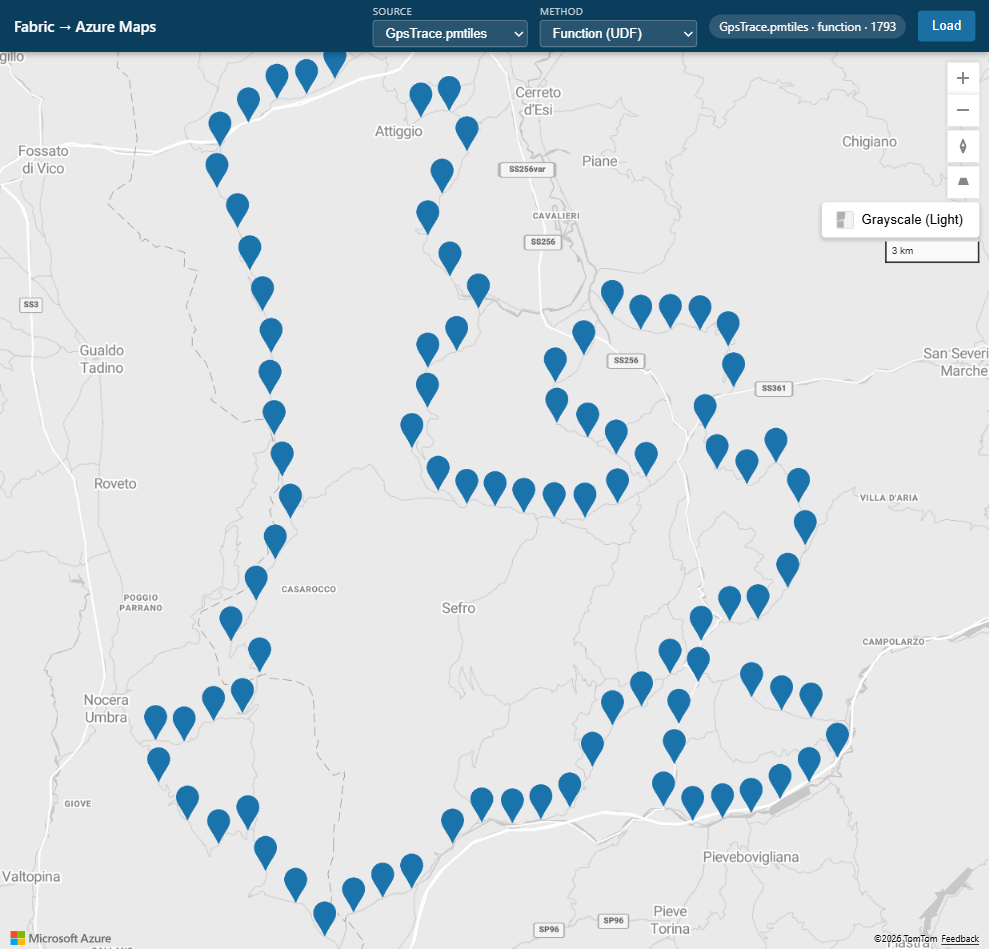
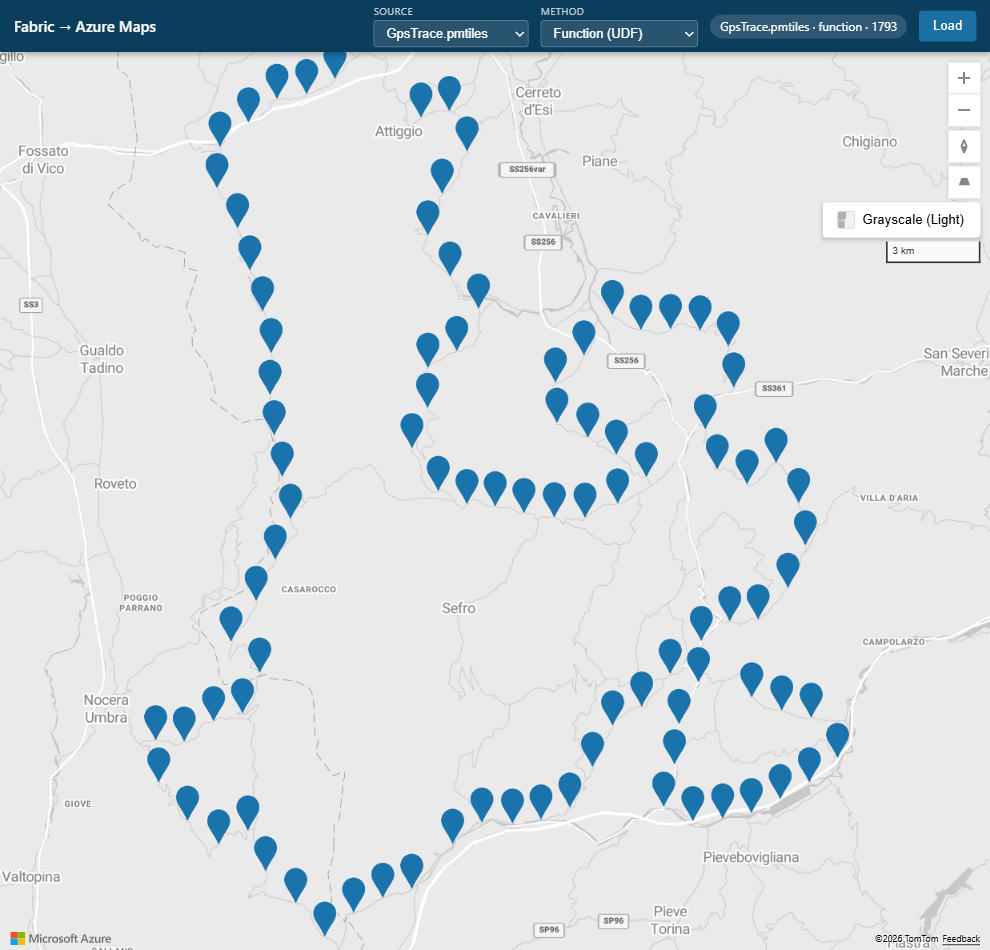
PMTiles: native pmtiles:// protocol + Range proxy (drop server-side tile decode)
- render-pmtiles.js: register pmtiles.js protocol, VectorTileSource url pmtiles://<archiveUrl>
- server: /api/pmtiles-archive with HTTP Range (206) replaces /api/pmtiles/{z}/{x}/{y}.mvt
- pmtiles lib: expose getPmtilesArchive (no MVT extraction/gunzip on server)
- index.html: load pmtiles@3.2.0; app.js: tokenacquired/error diagnostics
- browser decodes tiles client-side; server only relays bytes (OneLake-authenticated)

diff --git a/server/server.js b/server/server.js
@@ -4,8 +4,8 @@ const http = require("http");
 const fs = require("fs");
 const path = require("path");
 const cfg = require("./lib/config");
-const { getPmtilesTile } = require("./lib/pmtiles");
 const { getAzToken, RESOURCES } = require("./lib/fabric");
+const { getPmtilesArchive } = require("./lib/pmtiles");
 const registry = require("./sources");
 
 const PUBLIC_DIR = path.join(__dirname, "..", "public");
@@ -61,28 +61,43 @@ const server = http.createServer(async (req, res) => {
     }
   }
 
-  const pmtilesMatch = url.match(/^\/api\/pmtiles\/(\d+)\/(\d+)\/(\d+)\.mvt$/);
-  if (pmtilesMatch) {
+  // PMTiles archive served with HTTP Range support. The browser's pmtiles.js
+  // protocol range-requests this URL and decodes tiles client-side.
+  if (url === "/api/pmtiles-archive") {
     const method = q.get("method");
     if (method !== "function" && method !== "direct") {
       return sendJson(res, 400, { error: "PMTiles method must be 'function' or 'direct'." });
     }
-
-    const [, z, x, y] = pmtilesMatch.map(Number);
     try {
-      const tile = await getPmtilesTile(cfg, method, z, x, y);
-      if (!tile) {
-        res.writeHead(204, { "Cache-Control": "public, max-age=3600" });
-        return res.end();
-      }
-      res.writeHead(200, {
-        "Content-Type": "application/x-protobuf",
-        "Content-Length": tile.length,
+      const archive = await getPmtilesArchive(cfg, method);
+      const total = archive.length;
+      const base = {
+        "Content-Type": "application/octet-stream",
+        "Accept-Ranges": "bytes",
         "Cache-Control": "public, max-age=3600",
-      });
-      return res.end(tile);
+      };
+      const range = req.headers["range"];
+      const m = range && /^bytes=(\d*)-(\d*)$/.exec(range);
+      if (m) {
+        let start = m[1] === "" ? undefined : parseInt(m[1], 10);
+        let end = m[2] === "" ? undefined : parseInt(m[2], 10);
+        if (start === undefined) { start = Math.max(0, total - end); end = total - 1; }
+        else if (end === undefined || end >= total) { end = total - 1; }
+        if (start > end || start >= total) {
+          res.writeHead(416, { "Content-Range": `bytes */${total}` });
+          return res.end();
+        }
+        const chunk = archive.subarray(start, end + 1);
+        res.writeHead(206, Object.assign({}, base, {
+          "Content-Range": `bytes ${start}-${end}/${total}`,
+          "Content-Length": chunk.length,
+        }));
+        return res.end(chunk);
+      }
+      res.writeHead(200, Object.assign({}, base, { "Content-Length": total }));
+      return res.end(archive);
     } catch (err) {
-      console.error(`[/api/pmtiles/${z}/${x}/${y}.mvt method=${method}]`, err.message);
+      console.error(`[/api/pmtiles-archive method=${method}]`, err.message);
       return sendJson(res, 502, { error: err.message });
     }
   }

diff --git a/public/render-pmtiles.js b/public/render-pmtiles.js
@@ -1,18 +1,30 @@
 "use strict";
 
+// Renders a PMTiles archive using the Azure Maps native `pmtiles://` protocol.
+// The pmtiles.js library issues HTTP Range requests to the archive URL and decodes
+// vector tiles in the browser — the server only relays byte ranges (no tile decode).
+// Docs: https://learn.microsoft.com/en-us/azure/azure-maps/add-custom-protocol-pmtiles
+
 (function registerPmtilesRenderer() {
+  // Register the pmtiles protocol with Azure Maps once.
+  if (!window.__pmtilesProtocol && window.pmtiles && window.atlas) {
+    const protocol = new window.pmtiles.Protocol();
+    atlas.addProtocol("pmtiles", protocol.tile);
+    window.__pmtilesProtocol = protocol;
+  }
+
   window.renderers.pmtiles = function renderPmtiles(payload) {
     if (window.__pmtilesLayerCleanup) window.__pmtilesLayerCleanup();
 
     const map = window.__map;
     if (!map) throw new Error("Azure Maps is not ready.");
 
+    const archiveUrl = location.origin + payload.archiveUrl;
     const source = new atlas.source.VectorTileSource(null, {
-      tiles: [location.origin + payload.tilesUrl],
-      minZoom: payload.minZoom,
-      maxZoom: payload.maxZoom,
-      bounds: payload.bounds,
+      type: "vector",
+      url: `pmtiles://${archiveUrl}`, // protocol auto-derives min/max zoom
     });
+
     const layers = [
       new atlas.layer.LineLayer(source, null, {
         sourceLayer: payload.sourceLayer,
@@ -43,7 +55,7 @@
     sourceAdded = true;
     map.layers.add(layers);
     layersAdded = true;
-    map.setCamera({ bounds: payload.bounds });
+    if (payload.bounds) map.setCamera({ bounds: payload.bounds });
 
     return payload.featureCount ?? null;
   };

diff --git a/server/lib/pmtiles.js b/server/lib/pmtiles.js
@@ -128,10 +128,9 @@ async function getPmtilesMetadata(cfg, method) {
   };
 }
 
-async function getPmtilesTile(cfg, method, z, x, y) {
-  const { pmtiles } = await openPmtiles(cfg, method);
-  const tile = await pmtiles.getZxy(z, x, y);
-  return tile ? Buffer.from(tile.data) : null;
+async function getPmtilesArchive(cfg, method) {
+  const { archive } = await openPmtiles(cfg, method);
+  return archive; // full .pmtiles archive Buffer (cached per method)
 }
 
-module.exports = { FILE_PATH, getPmtilesMetadata, getPmtilesTile };
+module.exports = { FILE_PATH, getPmtilesMetadata, getPmtilesArchive };

diff --git a/server/sources/pmtiles.js b/server/sources/pmtiles.js
@@ -6,7 +6,7 @@ async function payload(cfg, method) {
   const metadata = await getPmtilesMetadata(cfg, method);
   return {
     format: "pmtiles",
-    tilesUrl: `/api/pmtiles/{z}/{x}/{y}.mvt?method=${method}`,
+    archiveUrl: `/api/pmtiles-archive?method=${method}`,
     sourceLayer: metadata.sourceLayer,
     minZoom: metadata.minZoom,
     maxZoom: metadata.maxZoom,

diff --git a/public/app.js b/public/app.js
@@ -55,6 +55,9 @@ function initMap(mapsAuth) {
     authOptions,
   });
 
+  map.events.add("tokenacquired", () => console.log("Azure Maps token acquired"));
+  map.events.add("error", (e) => console.error("Azure Maps error:", (e && e.error) || e));
+
   map.events.add("ready", () => {
     window.__map = map;
 

diff --git a/public/index.html b/public/index.html
@@ -45,6 +45,7 @@
   <div id="map"></div>
   <div id="status" class="status"></div>
   <script src="./app.js"></script>
+  <script src="https://unpkg.com/pmtiles@3.2.0/dist/pmtiles.js"></script>
   <script src="./render-pmtiles.js"></script>
 </body>
 </html>

diff --git a/docs/sources/pmtiles.md b/docs/sources/pmtiles.md
@@ -22,17 +22,24 @@ in memory.
 The proxy reads the archive directly from OneLake with the storage audience
 `https://storage.azure.com` and caches the same bytes in memory.
 
-Both methods then expose this tile route:
+Both methods then expose the archive over an HTTP **Range**-capable endpoint:
 
 ```text
-GET /api/pmtiles/{z}/{x}/{y}.mvt?method=function|direct
+GET /api/pmtiles-archive?method=function|direct     (supports Range: bytes=…)
 ```
 
-The `pmtiles` npm package reads individual MVT tiles from the archive. The
-proxy gunzips compressed directories and tile payloads, then returns the tile
-as `application/x-protobuf`. The browser uses
-`atlas.source.VectorTileSource`; line, polygon, and symbol layers reference the
-`GpsTrace` source layer.
+The browser uses the Azure Maps **native PMTiles protocol** — the `pmtiles.js`
+library registers a `pmtiles://` handler (`atlas.addProtocol("pmtiles", …)`) and
+a `VectorTileSource` with `url: "pmtiles://<archiveUrl>"`. The library issues
+Range requests to the archive endpoint and decodes MVT tiles **in the browser**;
+the server only relays byte ranges (no tile decode or gunzip). Line, polygon, and
+symbol layers reference the `GpsTrace` source layer.
+
+> Alternative (fully backend-free): if the `.pmtiles` file is copied to a public
+> Azure Blob / static host, point the `pmtiles://` URL straight at that public URL
+> and drop `/api/pmtiles-archive` entirely. This demo keeps the file in OneLake, so
+> the Range proxy relays the (authenticated) bytes. See
+> [add custom protocol PMTiles](https://learn.microsoft.com/en-us/azure/azure-maps/add-custom-protocol-pmtiles).
 
 ## Setup & permissions
 

diff --git a/docs/hosting-and-public-access.md b/docs/hosting-and-public-access.md
@@ -26,7 +26,7 @@ const token = (await credential.getToken("https://storage.azure.com/.default")).
 ```
 
 That is the only structural change to `server/lib/fabric.js`. Everything else
-(routes, sources, pmtiles tile server) runs unchanged.
+(routes, sources, pmtiles range proxy) runs unchanged.
 Refs: [credential chains](https://learn.microsoft.com/en-us/azure/developer/javascript/sdk/authentication/credential-chains),
 [DefaultAzureCredential](https://learn.microsoft.com/en-us/javascript/api/@azure/identity/defaultazurecredential?view=azure-node-latest),
 [production best practices](https://learn.microsoft.com/en-us/azure/developer/javascript/sdk/authentication/best-practices).
